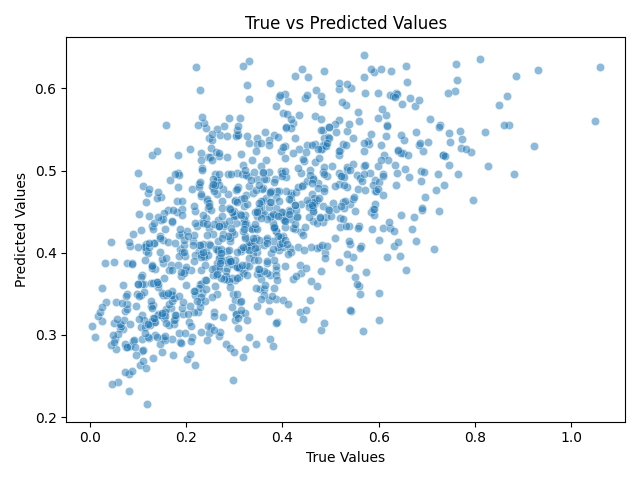
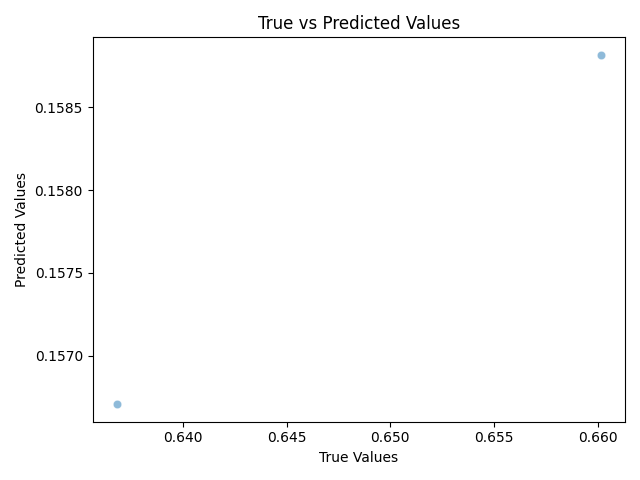
add

diff --git a/msp/utils.py b/msp/utils.py
@@ -3,21 +3,23 @@ import numpy as np
 import seaborn as sns
 from sklearn.metrics import r2_score, mean_squared_error, mean_absolute_error
 import matplotlib.pyplot as plt
+
 import torch
 import torch.nn.functional as F
+import pytorch_lightning as pl
+from pytorch_lightning.callbacks import EarlyStopping, ModelCheckpoint, StochasticWeightAveraging
+from lightning.pytorch.callbacks import RichProgressBar
+from lightning.pytorch.callbacks.progress.rich_progress import RichProgressBarTheme
 
 
 def get_trainer(n_epoch):
-    import pytorch_lightning as pl
-    from pytorch_lightning.callbacks import EarlyStopping, ModelCheckpoint, StochasticWeightAveraging
-
     # 기울기 클리핑 설정
     gradient_clip_val = 1.0
 
     # 조기 종료 설정
     early_stop_callback = EarlyStopping(
         monitor="val_loss",
-        patience=20,
+        patience=30,
         verbose=True,
         mode="min",
     )
@@ -25,7 +27,7 @@ def get_trainer(n_epoch):
     # 체크포인트 저장 설정
     checkpoint_callback = ModelCheckpoint(
         monitor="val_loss",
-        dirpath="checkpoints",
+        # dirpath="checkpoints",
         filename="best-checkpoint",
         save_top_k=1,
         verbose=True,
@@ -34,7 +36,7 @@ def get_trainer(n_epoch):
 
     # Stochastic Weight Averaging 설정
     swa_callback = StochasticWeightAveraging(
-        swa_epoch_start=100,
+        swa_epoch_start=1,
         swa_lrs=1e-5,
         # verbose=True,
     )
@@ -53,7 +55,8 @@ def get_trainer(n_epoch):
         log_every_n_steps=30,
         callbacks=[checkpoint_callback,
                    early_stop_callback,
-                   ], #, swa_callback, 
+                   swa_callback,
+                   ], #, 
     )
     return trainer
 

diff --git a/msp/model.py b/msp/model.py
@@ -12,20 +12,27 @@ class PolygonRegressor(pl.LightningModule):
         self.lr = lr
         self.save_hyperparameters()
 
-    def training_step(self, batch, batch_idx):
+    def get_loss(self, batch):
         polygons, areas = batch
         outputs = self.layer(polygons)
         loss = nn.MSELoss()(outputs, areas)
+        return loss
+
+    def training_step(self, batch, batch_idx):
+        loss = self.get_loss(batch)
         self.log("train_loss", loss)
         return loss
 
     def validation_step(self, batch, batch_idx):
-        polygons, areas = batch
-        outputs = self.layer(polygons)
-        loss = nn.MSELoss()(outputs, areas)
+        loss = self.get_loss(batch)
         self.log("val_loss", loss)
         return loss
 
+    def test_step(self, batch, batch_idx):
+        loss = self.get_loss(batch)
+        self.log("test_loss", loss)
+        return loss
+    
     def predict_step(self, batch, batch_idx):
         x, y = batch
         with torch.no_grad():

diff --git a/msp/tutorial.py b/msp/tutorial.py
@@ -39,6 +39,7 @@ def main(dataset_kwargs={}, n_epoch=200, model_kwargs={}):
     trainer = get_trainer(n_epoch)
     trainer.fit(model, data_module)
     trainer.validate(model, datamodule=data_module)
+    trainer.test(model, datamodule=data_module)
 
     y_true, y_pred = get_predictions(trainer, model, data_module)
     print(np.shape(y_true), np.shape(y_pred))
@@ -48,7 +49,7 @@ def main(dataset_kwargs={}, n_epoch=200, model_kwargs={}):
 
 if __name__ == '__main__':
     dataset_kwargs = {
-        'n_samples': 10000,
+        'n_samples': 20,
         'n_channels': 2,
         'range_shape': [1, 3],
         'range_polygon': [3, 5],
